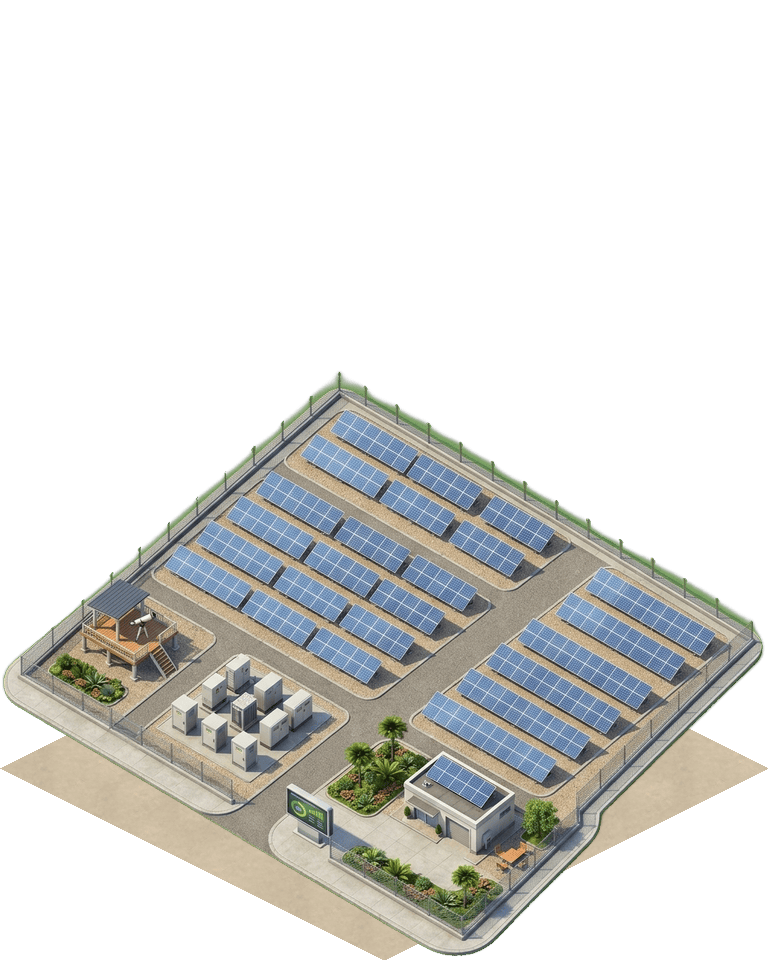
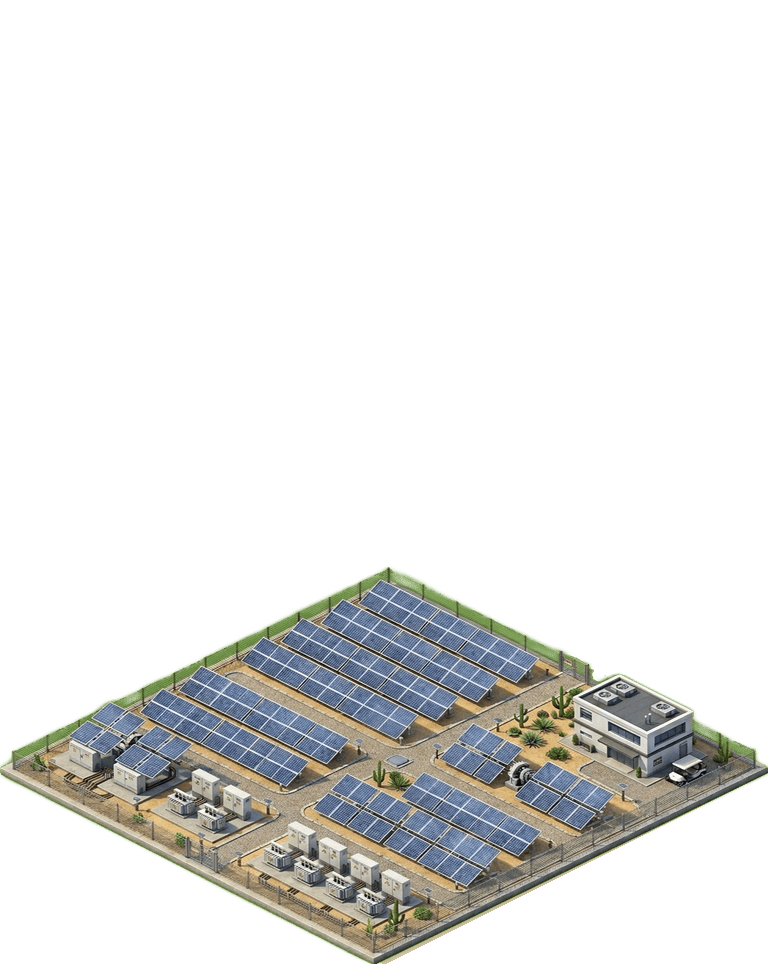
sprite pipeline: detect ground corners at the column base, not the median
_ground_tips used the median opaque row of the leftmost/rightmost column as the
west/east corner, which lands mid-wall when a tall structure sits at the
sprite's extreme (solar_farm's control building) — corrupting the measured
ground aspect and the affine corners. Use the bottom-most opaque row (the
ground line) instead. With a cleaned raw, solar_farm now affine-fits its 4×4
footprint cleanly.

diff --git a/tools/sprite_pipeline/process.py b/tools/sprite_pipeline/process.py
@@ -232,8 +232,12 @@ def _ground_tips(img: Image.Image) -> tuple[int, int, int, float, float] | None:
     """`(xmin, xmax, ymax, y_w, y_e)` of the solidly-opaque silhouette.
 
     `xmin`/`xmax` are the west/east tip columns, `ymax` the south tip row, and
-    `y_w`/`y_e` the median opaque rows in the west/east tip columns. None if the
-    silhouette is empty. Shared by [ground_squash] and [needs_horizontal_flip].
+    `y_w`/`y_e` the *bottom-most* opaque rows in those columns — the ground
+    line. (Median would land mid-wall when a tall structure sits at the sprite's
+    left/right extreme — e.g. solar_farm's control building — corrupting the
+    aspect and the affine corners; the ground corner is at the base.) None if
+    the silhouette is empty. Shared by [ground_squash] and
+    [needs_horizontal_flip].
     """
     op = np.asarray(img)[..., 3] > SILHOUETTE_CUTOFF
     cols = np.where(op.any(axis=0))[0]
@@ -241,8 +245,8 @@ def _ground_tips(img: Image.Image) -> tuple[int, int, int, float, float] | None:
     if len(cols) == 0 or len(rows) == 0:
         return None
     xmin, xmax, ymax = int(cols[0]), int(cols[-1]), int(rows[-1])
-    y_w = float(np.median(np.where(op[:, xmin])[0]))
-    y_e = float(np.median(np.where(op[:, xmax])[0]))
+    y_w = float(np.where(op[:, xmin])[0][-1])
+    y_e = float(np.where(op[:, xmax])[0][-1])
     return xmin, xmax, ymax, y_w, y_e
 
 